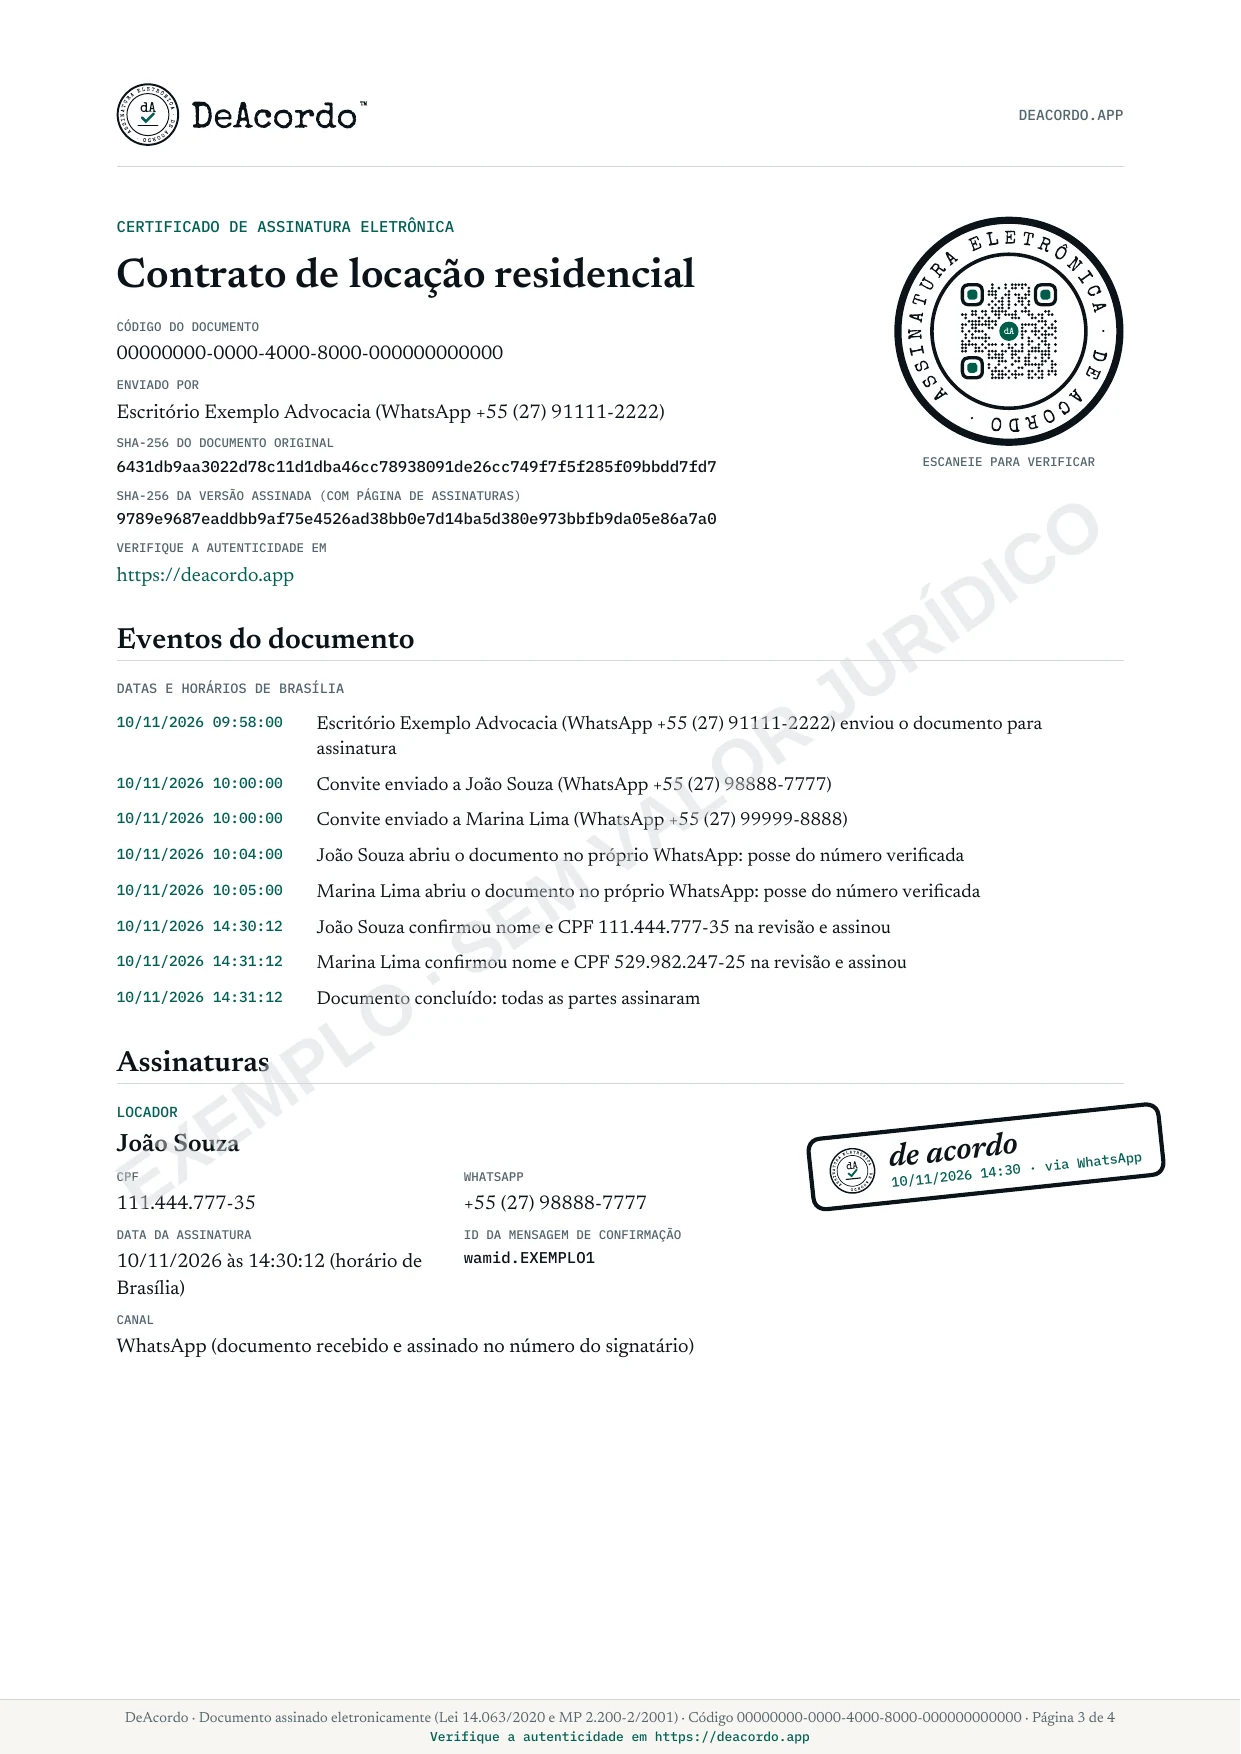
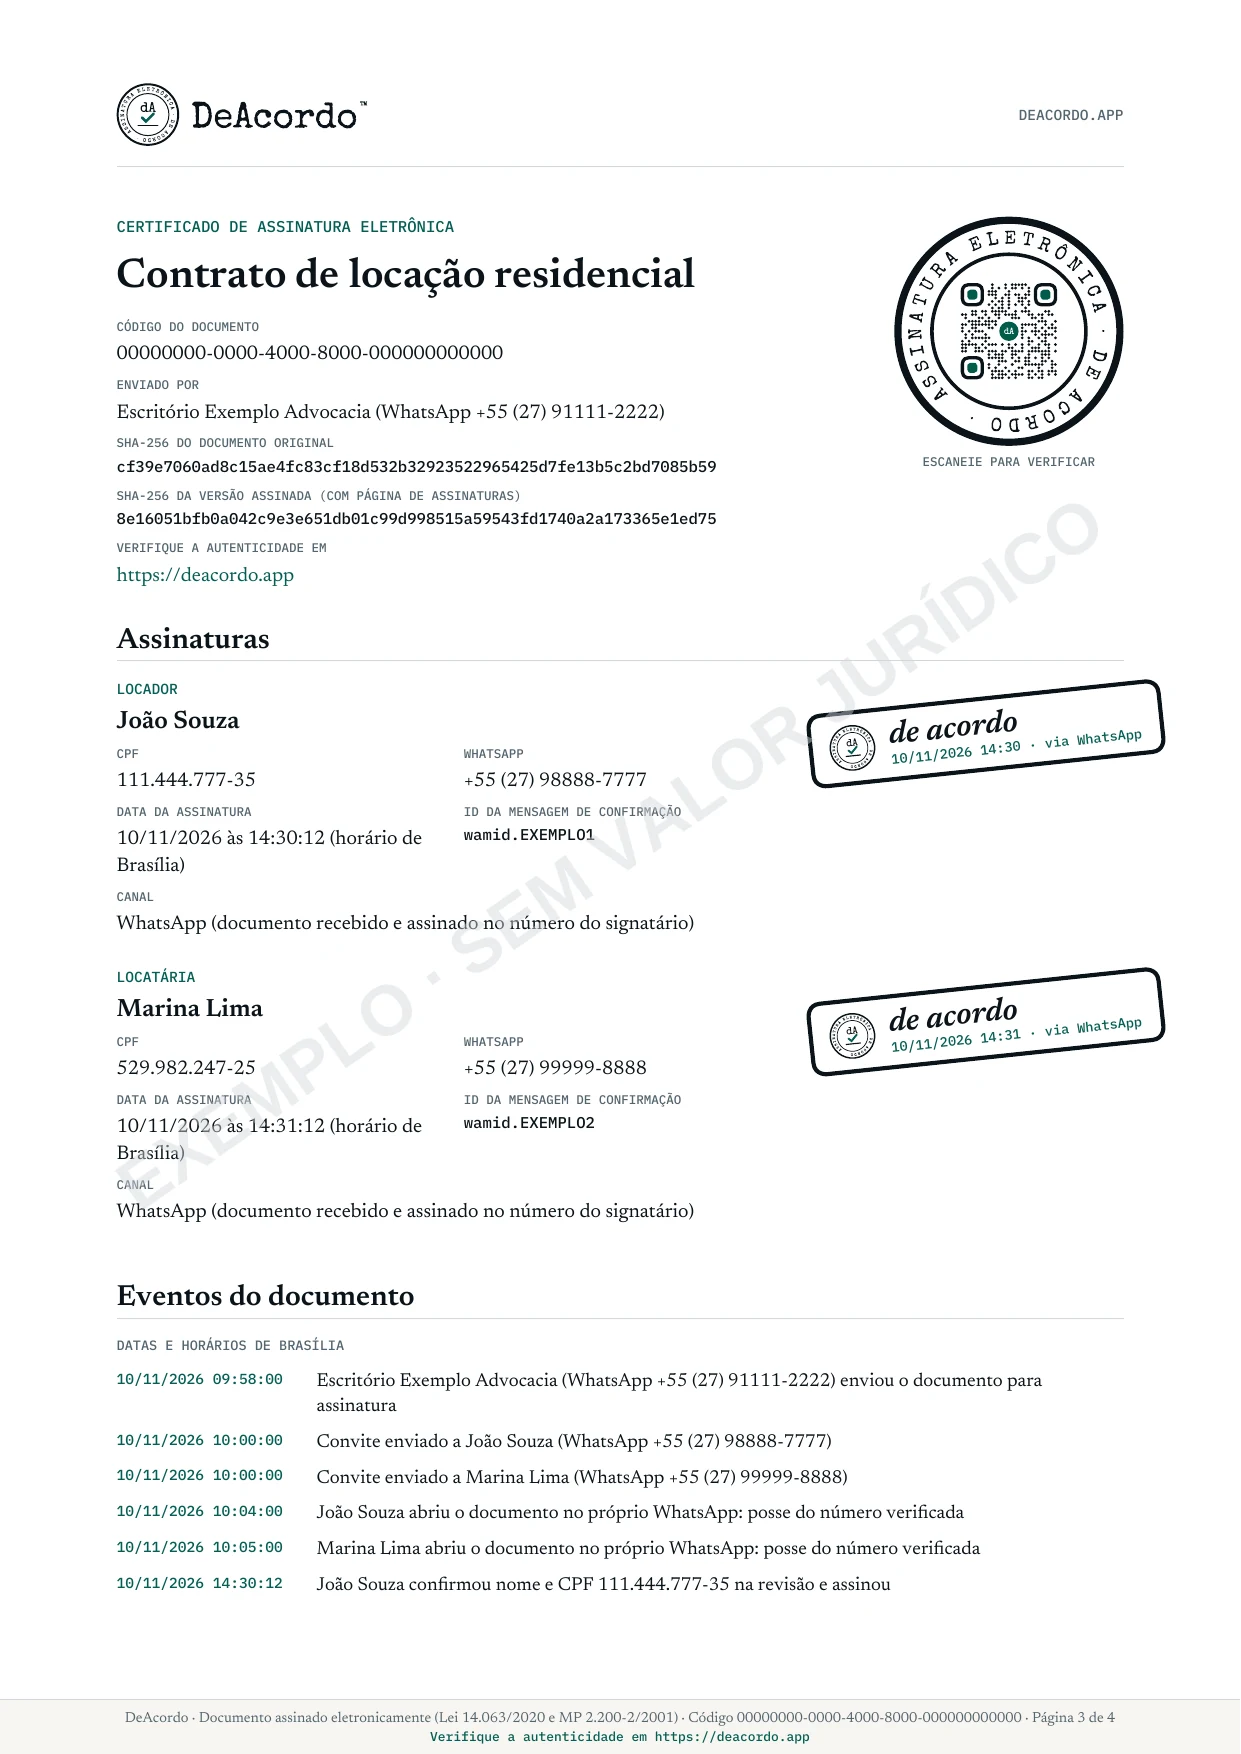
Certificado: assinaturas junto do QR e dos hashes; a trilha de eventos vem depois
A trilha começa logo após as assinaturas e continua na página seguinte quando não cabe.
O exemplo do site mostra essa página com as duas assinaturas.

Claude-Session: https://claude.ai/code/session_01LnHaPdq6qLtdmDHBr59r6h

diff --git a/site/index.html b/site/index.html
@@ -175,7 +175,7 @@
       <div class="via-texto revelar">
         <p class="rotulo">A via assinada</p>
         <h2 class="titulo-2" id="titulo-exemplo">O documento vai assinado direto no seu <span class="com-wa">WhatsApp<span class="wa" aria-hidden="true"></span></span>, <i>assim:</i></h2>
-        <p class="corpo-grande">Toda via termina com o certificado de assinatura: o QR Code que abre a página de verificação, o hash SHA-256 que prova que nada foi alterado e a trilha de eventos, com a data e a hora de cada etapa, do envio à última assinatura.</p>
+        <p class="corpo-grande">Toda via termina com o certificado de assinatura: o QR Code que abre a página de verificação, o hash SHA-256 que prova que nada foi alterado, os dados de cada pessoa que assinou e a trilha de eventos, com a data e a hora de cada etapa.</p>
         <div class="acoes">
           <button class="botao principal" type="button" data-abrir-via>Ver em tela cheia</button>
         </div>
@@ -189,7 +189,7 @@
           <img src="/exemplo/certificado-150dpi.webp"
                srcset="/exemplo/certificado-150dpi.webp 1241w, /exemplo/certificado-300dpi.webp 2481w"
                sizes="92vw" width="2481" height="3508" decoding="async"
-             alt="Certificado de assinatura de exemplo: QR Code de verificação, hashes SHA-256 e a trilha de eventos do documento">
+             alt="Certificado de assinatura de exemplo: QR Code de verificação, hashes SHA-256, as duas assinaturas e o início da trilha de eventos">
         </picture>
         </button>
         <figcaption>Toque na folha para ampliar</figcaption>
@@ -205,7 +205,7 @@
       </button>
     </div>
     <div class="visualizador-paginas">
-      <img data-src="/exemplo/certificado-300dpi.webp" width="2481" height="3508" alt="Certificado de assinatura de exemplo: QR Code de verificação, hashes SHA-256 e a trilha de eventos do documento">
+      <img data-src="/exemplo/certificado-300dpi.webp" width="2481" height="3508" alt="Certificado de assinatura de exemplo: QR Code de verificação, hashes SHA-256, as duas assinaturas e o início da trilha de eventos">
     </div>
   </dialog>
 

diff --git a/src/assinatura/pagina.ts b/src/assinatura/pagina.ts
@@ -209,17 +209,6 @@ export async function finalizarDocumento(
   e.campo("Verifique a autenticidade em", dados.urlVerificacao, false, COR.tinta);
   adicionarLink(doc, e.pagina, [MARGEM, e.y, MARGEM + LARGURA_UTIL, e.y + 22], dados.urlVerificacao);
 
-  e.secao("Eventos do documento");
-  e.texto("DATAS E HORÁRIOS DE BRASÍLIA", 6.5, COR.apoio, e.mono);
-  e.espaco(4);
-  for (const ev of linhaDoTempo(dados)) {
-    e.garantir(16);
-    const y = e.y;
-    e.pagina.drawText(formatarDataHora(ev.em, false), { x: MARGEM, y: y - 8, size: 7, font: e.mono, color: COR.tinta });
-    e.texto(ev.texto, 9, COR.grafite, e.fonte, 96);
-    e.espaco(3);
-  }
-
   e.secao("Assinaturas");
   for (const r of dados.registros) {
     const imagem = r.selfie ? await incorporarImagem(doc, r.selfie) : null;
@@ -245,6 +234,17 @@ export async function finalizarDocumento(
     if (imagem) e.y = Math.min(e.y, topo - alturaFoto - 16);
     e.reservaDireita = 0;
     e.espaco(10);
+  }
+
+  e.secao("Eventos do documento");
+  e.texto("DATAS E HORÁRIOS DE BRASÍLIA", 6.5, COR.apoio, e.mono);
+  e.espaco(4);
+  for (const ev of linhaDoTempo(dados)) {
+    e.garantir(16);
+    const y = e.y;
+    e.pagina.drawText(formatarDataHora(ev.em, false), { x: MARGEM, y: y - 8, size: 7, font: e.mono, color: COR.tinta });
+    e.texto(ev.texto, 9, COR.grafite, e.fonte, 96);
+    e.espaco(3);
   }
 
   e.secao("Provas de integridade");

diff --git a/README.md b/README.md
@@ -186,7 +186,7 @@ O visual segue o design system do DeAcordo (direção 4a · Disco tinta):
 
 Os trechos destacados (razão social, CNPJ, prazos, encarregado) precisam ser preenchidos antes de publicar.
 
-A seção "O documento vai assinado direto no seu WhatsApp, assim:" usa a via de exemplo em `site/exemplo/` (só a primeira página do certificado, com QR Code, hashes e trilha de eventos, em WebP de 300 e 150 dpi; o PDF e as outras páginas não ficam no site), gerada com dados fictícios e marca d'água por `npx tsx scripts/gerar-exemplo-site.ts`. Rode de novo quando o visual do PDF mudar.
+A seção "O documento vai assinado direto no seu WhatsApp, assim:" usa a via de exemplo em `site/exemplo/` (só a primeira página do certificado, com QR Code, hashes, assinaturas e o início da trilha de eventos, em WebP de 300 e 150 dpi; o PDF e as outras páginas não ficam no site), gerada com dados fictícios e marca d'água por `npx tsx scripts/gerar-exemplo-site.ts`. Rode de novo quando o visual do PDF mudar.
 
 Depois de mudar `site/estilo.css`, `site/tokens.css` ou `site/tema.js`, rode `npx tsx scripts/versionar-site.ts`: ele põe nos links o `?v=` com o hash de cada arquivo, para o navegador não juntar a página nova com o estilo antigo guardado em cache. O `site/_headers` define o cache no Cloudflare Pages.
 
